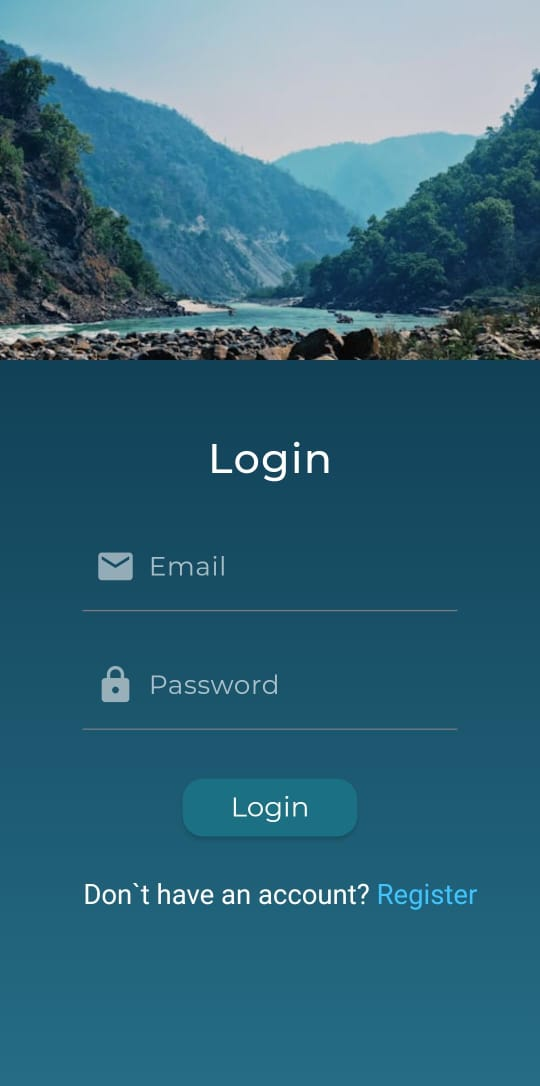
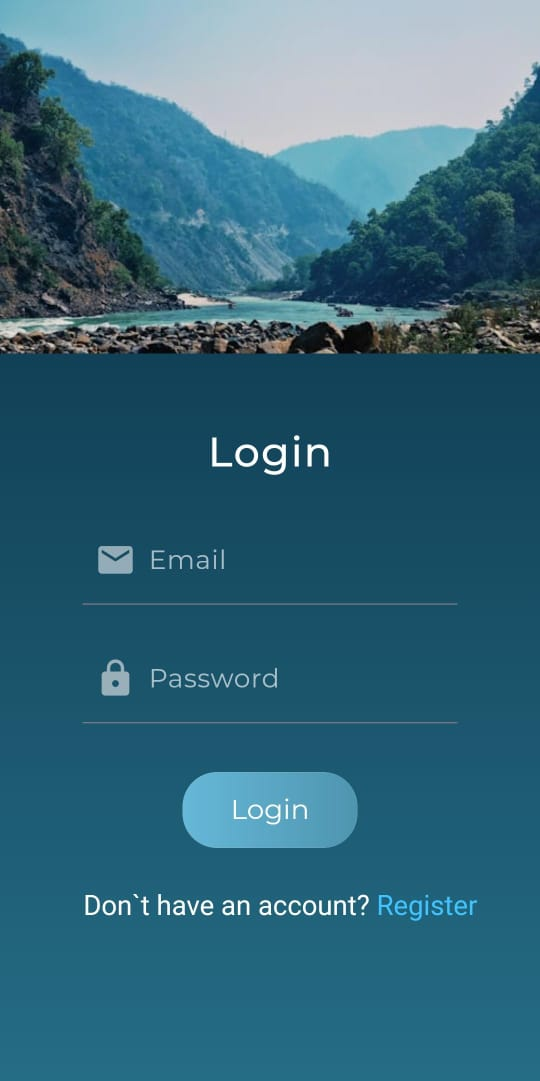
UI & Readme Changes

diff --git a/lib/confirmation.dart b/lib/confirmation.dart
@@ -17,8 +17,8 @@ class _congratulationState extends State<congratulation> {
       decoration: const BoxDecoration(
           gradient: LinearGradient(
         colors: [
-          Color(0xff22556B),
-          Color(0xff35728A),
+          Color(0xff06283D),
+          Color(0xff256D85),
         ],
         begin: Alignment.topCenter,
         end: Alignment.bottomCenter,
@@ -104,60 +104,95 @@ class _congratulationState extends State<congratulation> {
               //             )),
               //       ),
               //     )),
-              Positioned(
-                  bottom: 330,
-                  child: Container(
-                    padding: const EdgeInsets.only(left: 20),
-                    child: SizedBox(
-                      width: 350,
-                      height: 52,
-                      child: ElevatedButton(
+              Center(
+                child: Column(
+                  mainAxisSize: MainAxisSize.min,
+                  children: [
+                    Padding(
+                      padding: const EdgeInsets.only(bottom: 20),
+                      child: SizedBox(
+                        width: 250,
+                        height: 52,
+                        child: ElevatedButton(
                           onPressed: () {
                             Navigator.push(
-                                context,
-                                MaterialPageRoute(
-                                  builder: (context) => const first(),
-                                ));
+                              context,
+                              MaterialPageRoute(
+                                builder: (context) => const first(),
+                              ),
+                            );
                           },
                           style: ElevatedButton.styleFrom(
-                              backgroundColor: const Color.fromARGB(55, 0, 0, 0),
-                              shape: RoundedRectangleBorder(
-                                  borderRadius: BorderRadius.circular(16))),
-                          child: Text(
-                            'Explore',
-                            style: GoogleFonts.montserrat(
-                                fontSize: 20,
-                                letterSpacing: 0,
-                                fontWeight: FontWeight.w500,
-                                color: const Color.fromARGB(255, 255, 255, 255)),
-                          )),
+                            padding: EdgeInsets.zero,
+                            shape: RoundedRectangleBorder(
+                              borderRadius: BorderRadius.circular(16),
+                            ),
+                            elevation: 0,
+                            shadowColor: Colors.transparent,
+                          ),
+                          child: Ink(
+                            decoration: BoxDecoration(
+                              gradient: const LinearGradient(
+                                colors: [Color(0xff66B8D9), Color(0xff4E95AF)],
+                              ),
+                              borderRadius: BorderRadius.circular(16),
+                            ),
+                            child: Container(
+                              alignment: Alignment.center,
+                              child: Text(
+                                'Explore',
+                                style: GoogleFonts.montserrat(
+                                  fontSize: 24,
+                                  letterSpacing: 0,
+                                  fontWeight: FontWeight.w500,
+                                  color: const Color.fromARGB(255, 255, 255, 255),
+                                ),
+                              ),
+                            ),
+                          ),
+                        ),
+                      ),
                     ),
-                  )),
-              Positioned(
-                  bottom: 250,
-                  child: Container(
-                    padding: const EdgeInsets.only(left: 20),
-                    child: SizedBox(
-                      width: 350,
+                    SizedBox(
+                      width: 250,
                       height: 52,
                       child: ElevatedButton(
-                          onPressed: () {
-                            // FirebaseAuth.instance.signOut();
-                          },
-                          style: ElevatedButton.styleFrom(
-                              backgroundColor: const Color.fromARGB(72, 0, 0, 0),
-                              shape: RoundedRectangleBorder(
-                                  borderRadius: BorderRadius.circular(16))),
-                          child: Text(
-                            'Logout',
-                            style: GoogleFonts.montserrat(
-                                fontSize: 20,
+                        onPressed: () {
+                          // FirebaseAuth.instance.signOut();
+                        },
+                        style: ElevatedButton.styleFrom(
+                          padding: EdgeInsets.zero,
+                          shape: RoundedRectangleBorder(
+                            borderRadius: BorderRadius.circular(16),
+                          ),
+                          elevation: 0,
+                          shadowColor: Colors.transparent,
+                        ),
+                        child: Ink(
+                          decoration: BoxDecoration(
+                            gradient: const LinearGradient(
+                              colors: [Color(0xff66B8D9), Color(0xff4E95AF)],
+                            ),
+                            borderRadius: BorderRadius.circular(16),
+                          ),
+                          child: Container(
+                            alignment: Alignment.center,
+                            child: Text(
+                              'Logout',
+                              style: GoogleFonts.montserrat(
+                                fontSize: 24,
                                 letterSpacing: 0,
                                 fontWeight: FontWeight.w500,
-                                color: const Color.fromARGB(255, 255, 255, 255)),
-                          )),
+                                color: const Color.fromARGB(255, 255, 255, 255),
+                              ),
+                            ),
+                          ),
+                        ),
+                      ),
                     ),
-                  ))
+                  ],
+                ),
+              )
             ],
           ),
         ),

diff --git a/lib/login.dart b/lib/login.dart
@@ -148,32 +148,49 @@ class _LoginState extends State<Login> {
                     ),
                   ),
                   Container(
-                      padding: const EdgeInsets.only(top: 36),
-                      child: ConstrainedBox(
-                        constraints:
-                            const BoxConstraints.tightFor(height: 42, width: 127),
-                        child: ElevatedButton(
-                          // onPressed: signIn,
-                          style: ElevatedButton.styleFrom(
-                              shape: RoundedRectangleBorder(
-                                  borderRadius: BorderRadius.circular(15)), backgroundColor: const Color(0xff1B7084),
-                              shadowColor: const Color(0xff1B7084),
-                              elevation: 3),
-                          onPressed: () {
-                            Navigator.push(
-                              context,
-                              MaterialPageRoute(
-                                builder: (context) => first(),
+                    padding: const EdgeInsets.only(top: 36),
+                    child: ConstrainedBox(
+                      constraints: const BoxConstraints.tightFor(height: 55, width: 127),
+                      child: ElevatedButton(
+                        style: ElevatedButton.styleFrom(
+                          padding: EdgeInsets.zero, // Remove padding from the button
+                          shape: RoundedRectangleBorder(
+                            borderRadius: BorderRadius.circular(25),
+                          ),
+                          elevation: 0,
+                          shadowColor: Colors.transparent, // Set this to transparent
+                        ),
+                        onPressed: () {
+                          Navigator.push(
+                            context,
+                            MaterialPageRoute(
+                              builder: (context) => first(),
+                            ),
+                          );
+                        },
+                        child: Ink(
+                          decoration: BoxDecoration(
+                            gradient: const LinearGradient(
+                              colors: [Color(0xff66B8D9), Color(0xff4E95AF)],
+                            ),
+                            borderRadius: BorderRadius.circular(25),
+                          ),
+                          child: Container(
+                            alignment: Alignment.center,
+                            constraints: const BoxConstraints.tightFor(height: 55, width: 127), // Ensure container fills the button
+                            child: Text(
+                              'Login',
+                              style: GoogleFonts.montserrat(
+                                fontSize: 20,
+                                fontWeight: FontWeight.w400,
+                                color: Colors.white,
                               ),
-                            );
-                          },
-                          child: Text(
-                            'Login',
-                            style: GoogleFonts.montserrat(
-                                fontSize: 20, fontWeight: FontWeight.w400, color: Colors.white),
+                            ),
                           ),
                         ),
-                      )),
+                      ),
+                    ),
+                  ),
                   Container(
                     padding: const EdgeInsets.only(top: 30, left: 15),
                     child: RichText(

diff --git a/lib/registration.dart b/lib/registration.dart
@@ -570,9 +570,16 @@ class _RegistrationState extends State<Registration> {
                     Container(
                       padding: const EdgeInsets.only(top: 36),
                       child: ConstrainedBox(
-                        constraints: const BoxConstraints.tightFor(
-                            height: 42, width: 127),
+                        constraints: const BoxConstraints.tightFor(height: 55, width: 127),
                         child: ElevatedButton(
+                          style: ElevatedButton.styleFrom(
+                            padding: EdgeInsets.zero, // Remove padding from the button
+                            shape: RoundedRectangleBorder(
+                              borderRadius: BorderRadius.circular(25),
+                            ),
+                            elevation: 0,
+                            shadowColor: Colors.transparent, // Set this to transparent
+                          ),
                           onPressed: () {
                             Navigator.push(
                               context,
@@ -581,20 +588,24 @@ class _RegistrationState extends State<Registration> {
                               ),
                             );
                           },
-                          style: ElevatedButton.styleFrom(
-                            shape: RoundedRectangleBorder(
-                              borderRadius: BorderRadius.circular(15),
+                          child: Ink(
+                            decoration: BoxDecoration(
+                              gradient: const LinearGradient(
+                                colors: [Color(0xff66B8D9), Color(0xff4E95AF)],
+                              ),
+                              borderRadius: BorderRadius.circular(25),
                             ),
-                            backgroundColor: const Color(0xff1B7084),
-                            shadowColor: const Color(0xff1B7084),
-                            elevation: 3,
-                          ),
-                          child: Text(
-                            'Register',
-                            style: TextStyle(
-                              fontSize: 20,
-                              fontWeight: FontWeight.w400,
-                              color: Colors.white,
+                            child: Container(
+                              alignment: Alignment.center,
+                              constraints: const BoxConstraints.tightFor(height: 55, width: 127), // Ensure container fills the button
+                              child: Text(
+                                'Register',
+                                style: GoogleFonts.montserrat(
+                                  fontSize: 20,
+                                  fontWeight: FontWeight.w400,
+                                  color: Colors.white,
+                                ),
+                              ),
                             ),
                           ),
                         ),

diff --git a/lib/flight.dart b/lib/flight.dart
@@ -54,8 +54,8 @@ class _flightState extends State<flight> {
       decoration: const BoxDecoration(
           gradient: LinearGradient(
             colors: [
-              Color(0xff22556B),
-              Color(0xff35728A),
+              Color(0xff06283D),
+              Color(0xff256D85),
             ],
             begin: Alignment.topCenter,
             end: Alignment.bottomCenter,
@@ -308,7 +308,7 @@ class _flightState extends State<flight> {
                     border: Border.all(
                         width: 1,
                         color: const Color.fromARGB(0, 239, 239, 239)),
-                    borderRadius: const BorderRadius.all(Radius.circular(50)),
+                    borderRadius: const BorderRadius.all(Radius.circular(25)),
                     gradient: const LinearGradient(
                         colors: [Color(0xff66B8D9), Color(0xff4E95AF)]),
                   ),

diff --git a/lib/train.dart b/lib/train.dart
@@ -451,8 +451,8 @@ class _trainState extends State<train> {
       decoration: const BoxDecoration(
           gradient: LinearGradient(
             colors: [
-              Color(0xff22556B),
-              Color(0xff35728A),
+              Color(0xff06283D),
+              Color(0xff256D85),
             ],
             begin: Alignment.topCenter,
             end: Alignment.bottomCenter,
@@ -705,7 +705,7 @@ class _trainState extends State<train> {
                     border: Border.all(
                         width: 1,
                         color: const Color.fromARGB(0, 239, 239, 239)),
-                    borderRadius: const BorderRadius.all(Radius.circular(50)),
+                    borderRadius: const BorderRadius.all(Radius.circular(25)),
                     gradient: const LinearGradient(
                         colors: [Color(0xff66B8D9), Color(0xff4E95AF)]),
                   ),

diff --git a/lib/card.dart b/lib/card.dart
@@ -1,4 +1,4 @@
-import 'package:travel/congratulation.dart';
+import 'package:travel/confirmation.dart';
 import 'package:intl/intl.dart';
 import 'package:flutter/material.dart';
 import 'package:google_fonts/google_fonts.dart';
@@ -37,8 +37,8 @@ class _netbankingState extends State<netbanking> {
       decoration: const BoxDecoration(
         gradient: LinearGradient(
           colors: [
-            Color(0xff22556B),
-            Color(0xff35728A),
+            Color(0xff06283D),
+            Color(0xff256D85),
           ],
           begin: Alignment.topCenter,
           end: Alignment.bottomCenter,

diff --git a/lib/upi.dart b/lib/upi.dart
@@ -1,4 +1,4 @@
-import 'package:travel/congratulation.dart';
+import 'package:travel/confirmation.dart';
 import 'package:flutter/material.dart';
 import 'package:google_fonts/google_fonts.dart';
 
@@ -17,8 +17,8 @@ class _upiState extends State<upi> {
       decoration: const BoxDecoration(
           gradient: LinearGradient(
         colors: [
-          Color(0xff22556B),
-          Color(0xff35728A),
+          Color(0xff06283D),
+          Color(0xff256D85),
         ],
         begin: Alignment.topCenter,
         end: Alignment.bottomCenter,

diff --git a/lib/payment.dart b/lib/payment.dart
@@ -17,8 +17,8 @@ class _PaymentState extends State<Payment> {
       decoration: const BoxDecoration(
         gradient: LinearGradient(
           colors: [
-            Color(0xff22556B),
-            Color(0xff35728A),
+            Color(0xff06283D),
+            Color(0xff256D85),
           ],
           begin: Alignment.topCenter,
           end: Alignment.bottomCenter,
